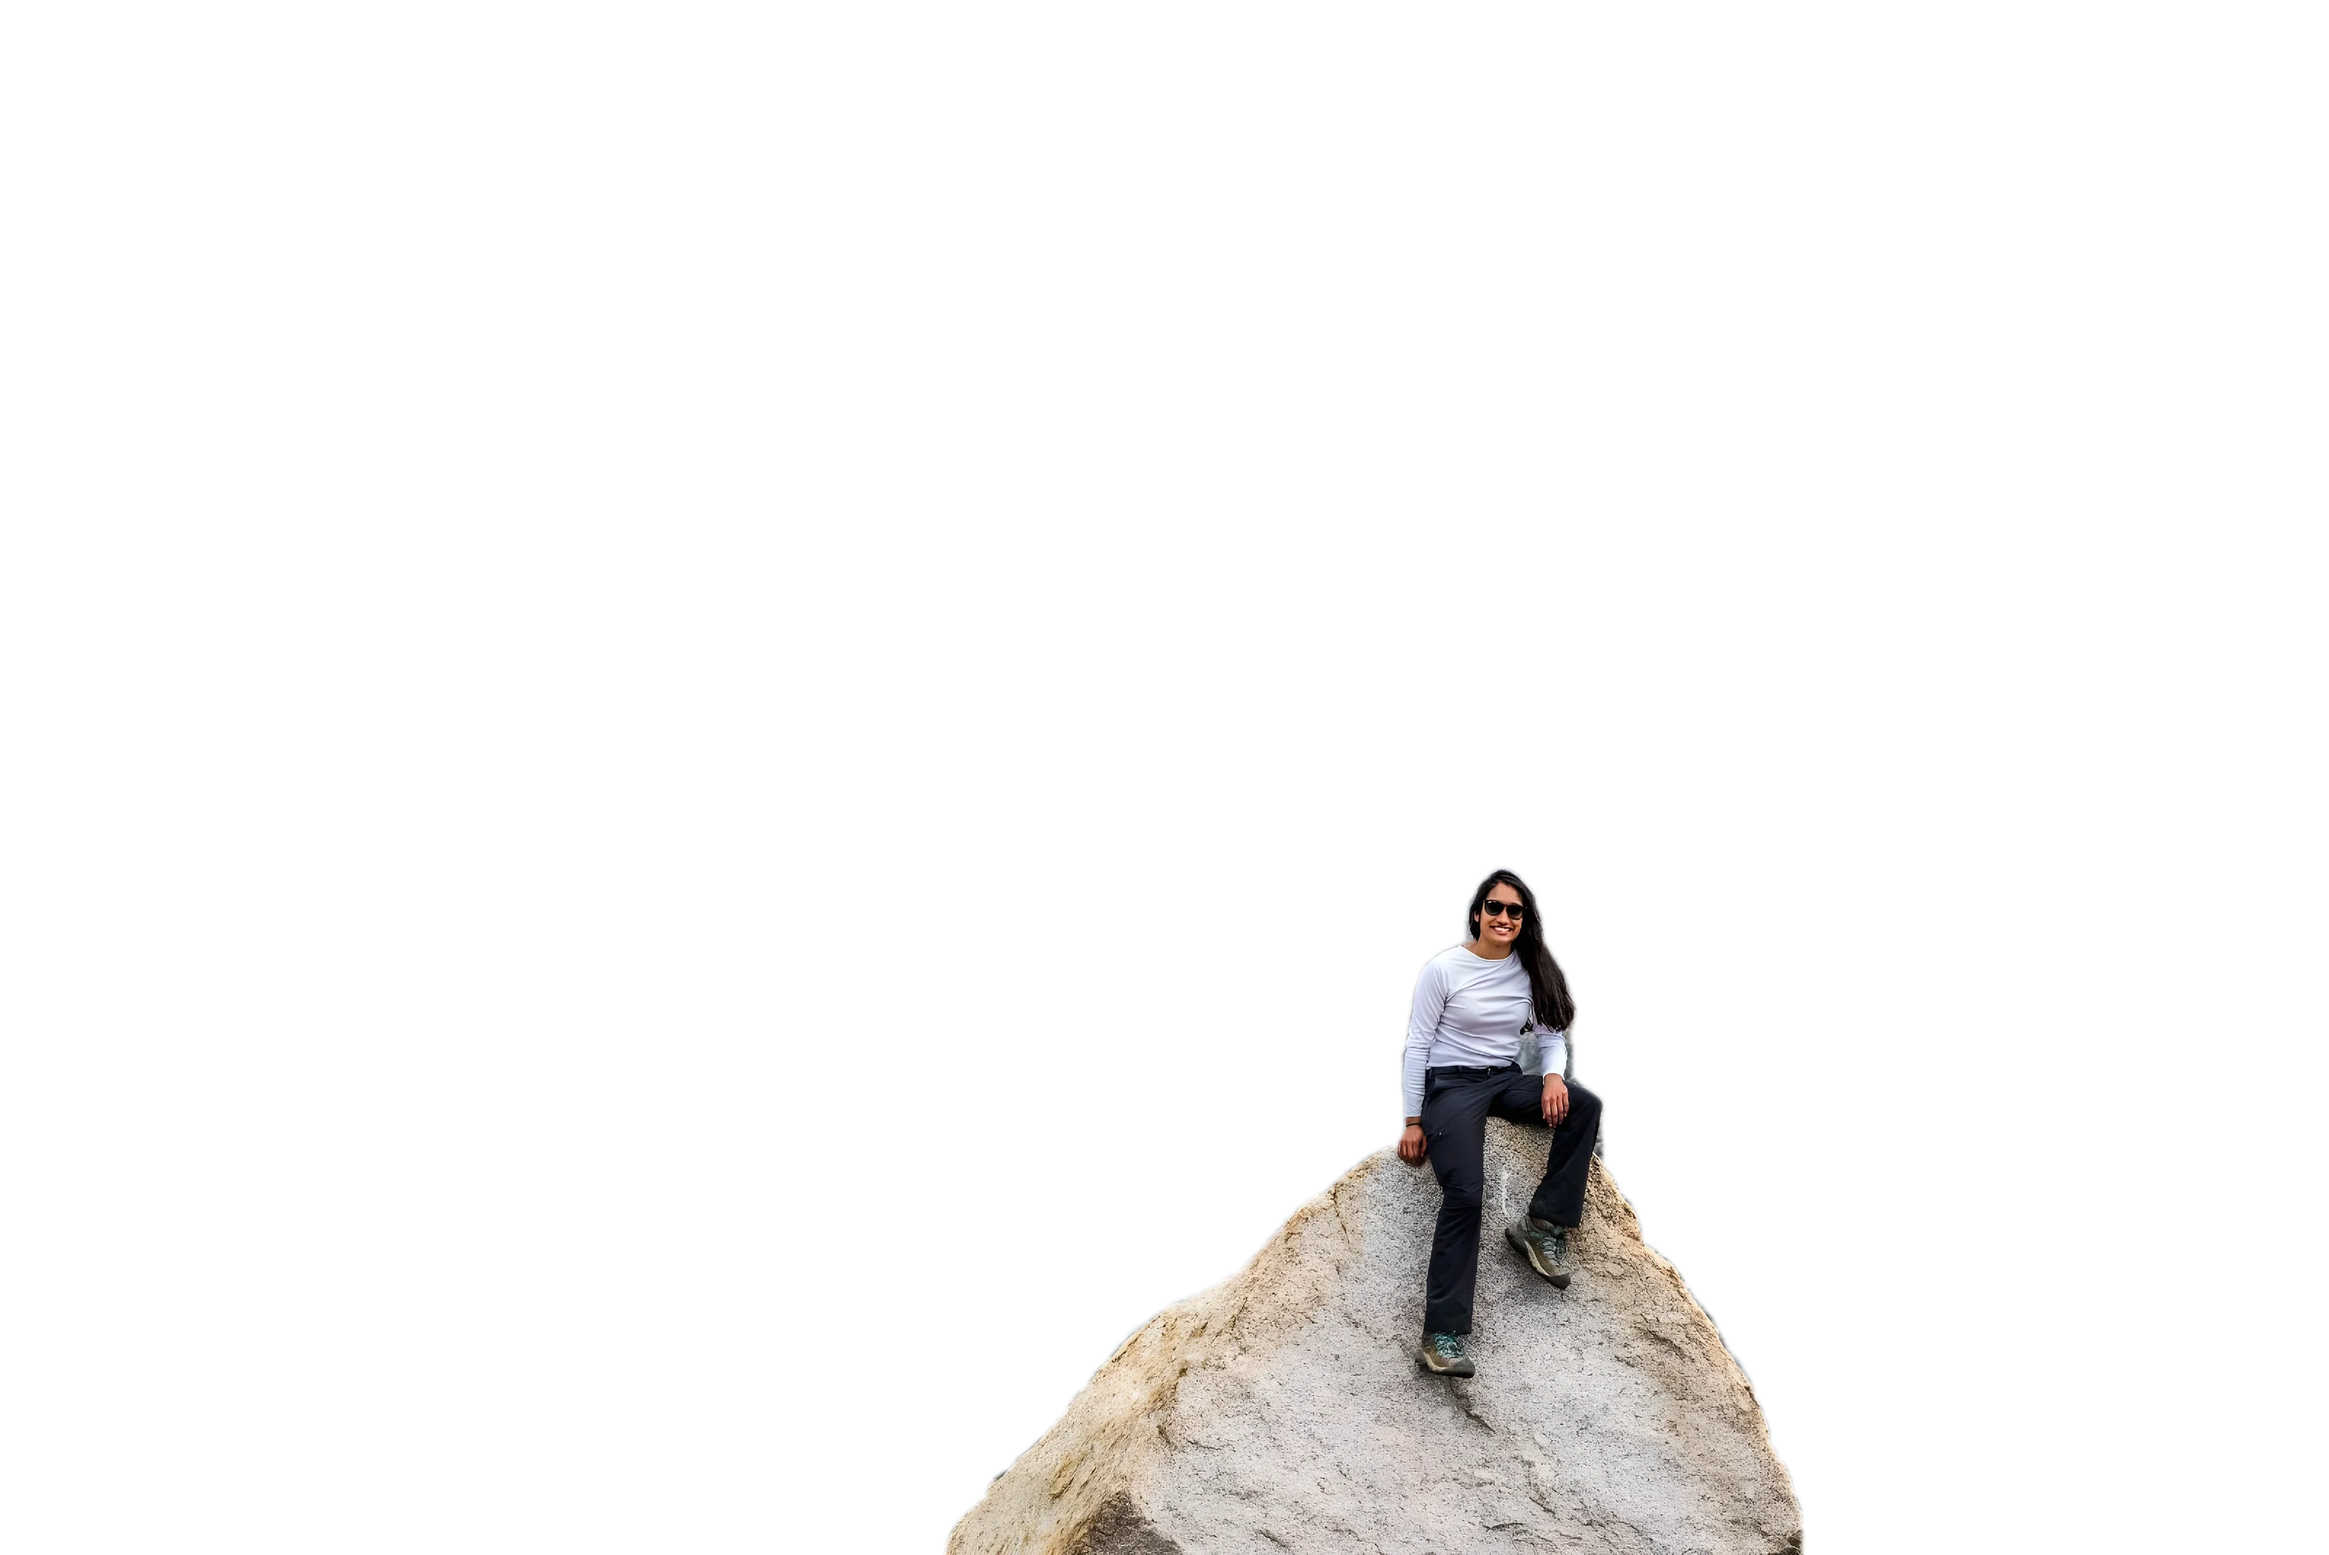
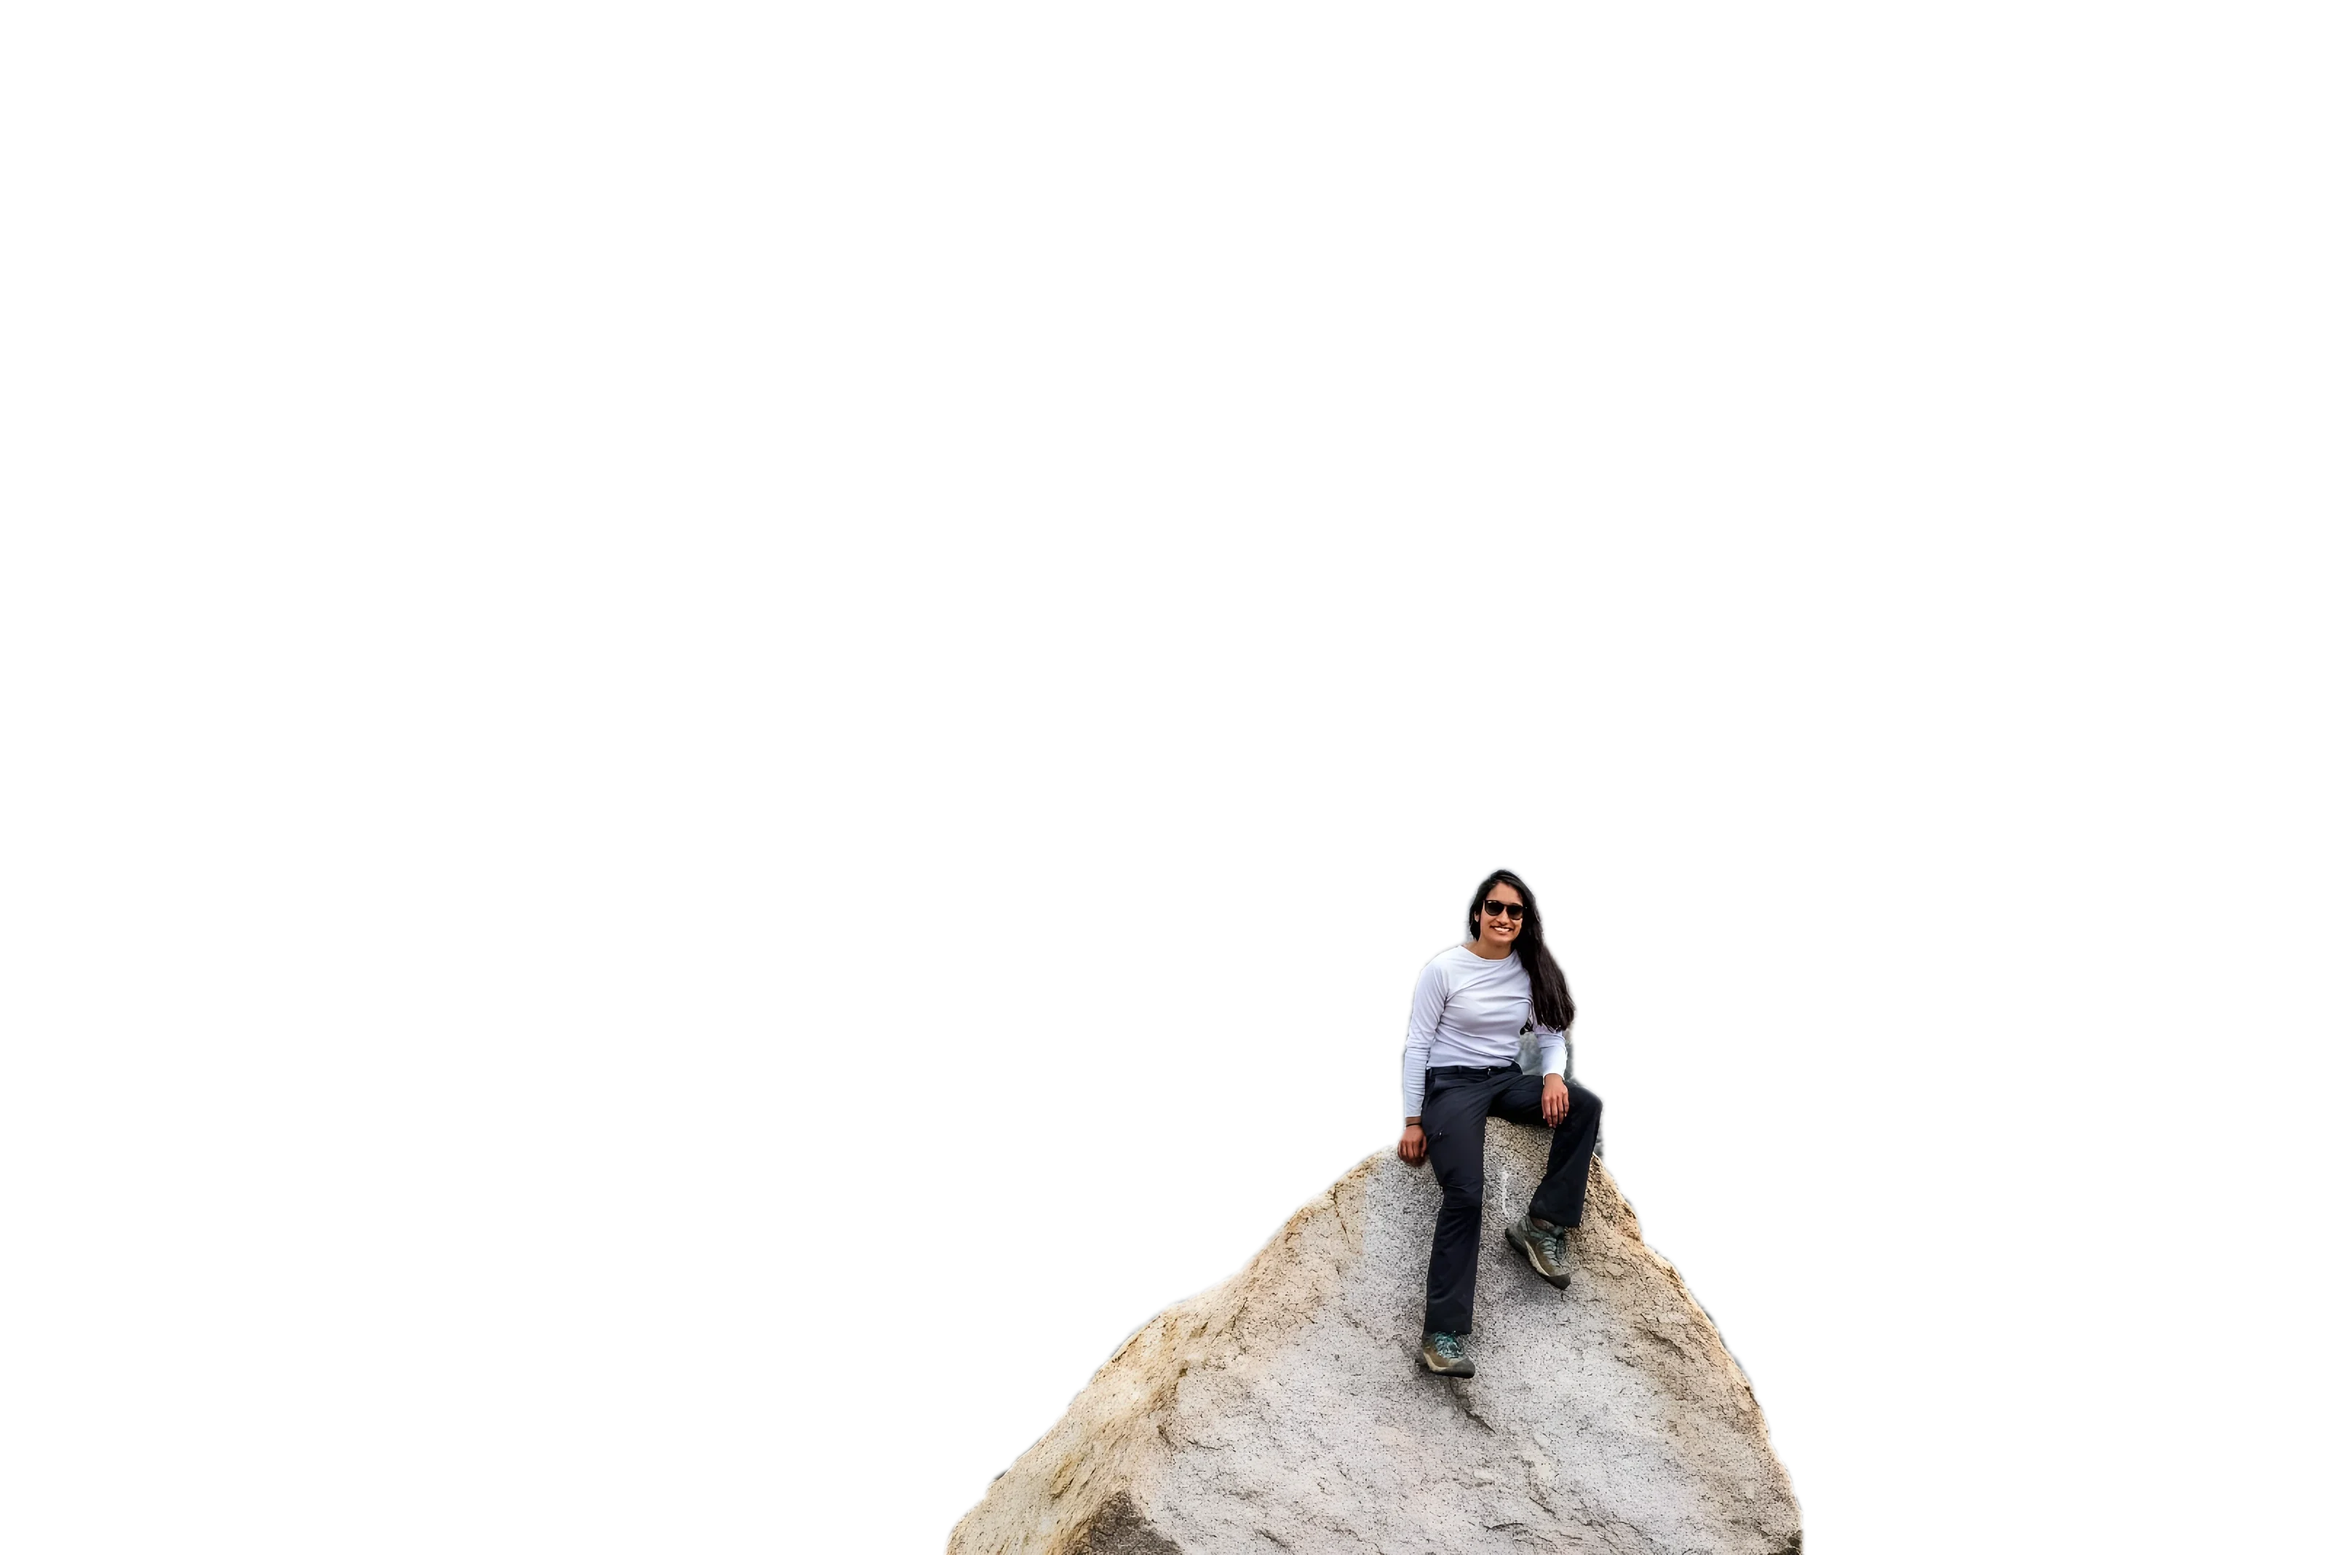
Ship TTA-ensemble foreground; prod prep and deploy
Foreground rebuilt from the 8-way self-ensemble (chosen over the single x4 pass on the mouth comparison). Removed the dev-only /maskpaint route, regenerated card.png as an og image from the new hero, dropped the staging file, and added serve_prod.py: a kernel-independent runner that execs the notebook and serves on 8000. lisadlima.com now shows the redesign.

Changed region(s): [[0.5312, 0.7107, 0.7812, 1.0], [0.4688, 0.9579, 0.5625, 1.0], [0.5, 0.8961, 0.5625, 0.9579]]

diff --git a/serve_prod.py b/serve_prod.py
@@ -1,0 +1,13 @@
+import os, sys
+os.chdir('/app/data/AUTORUN')
+sys.path.insert(0, '/app/data/AUTORUN')
+from fastcore.nbio import read_nb
+nb = read_nb('/app/data/AUTORUN/app.ipynb')
+ns = {}
+for c in nb.cells:
+    if c.cell_type != 'code': continue
+    src = c.source
+    if 'JupyUvi' in src or 'eval: false' in src: continue
+    exec(src, ns)
+import uvicorn
+uvicorn.run(ns['app'], host='0.0.0.0', port=8000, log_level='warning')
